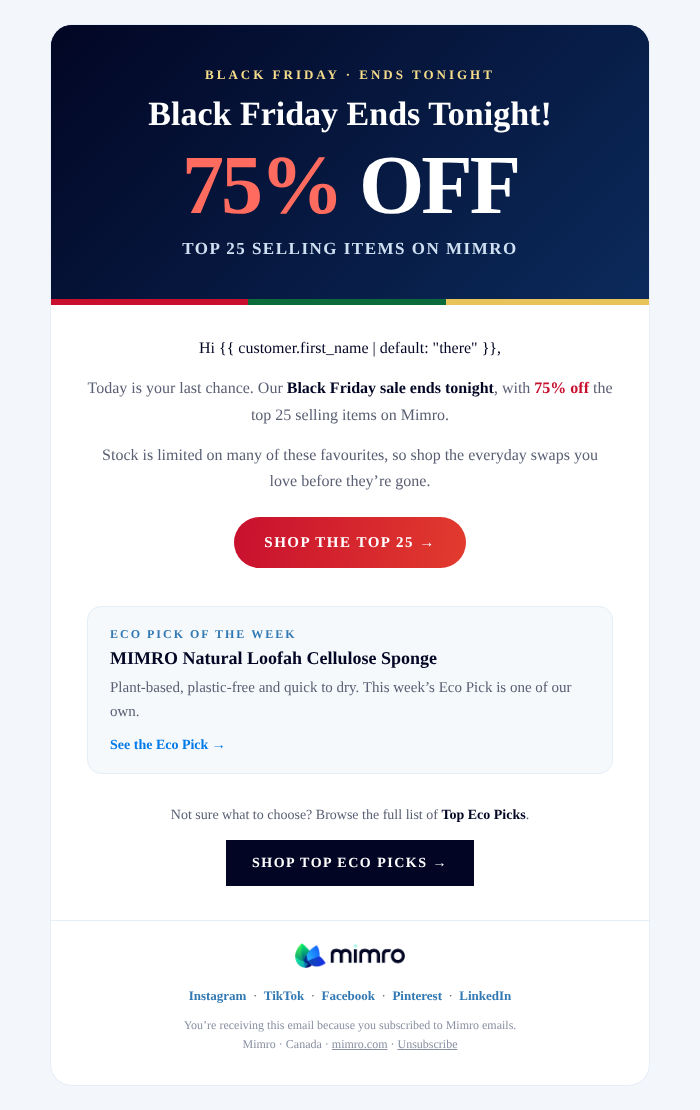
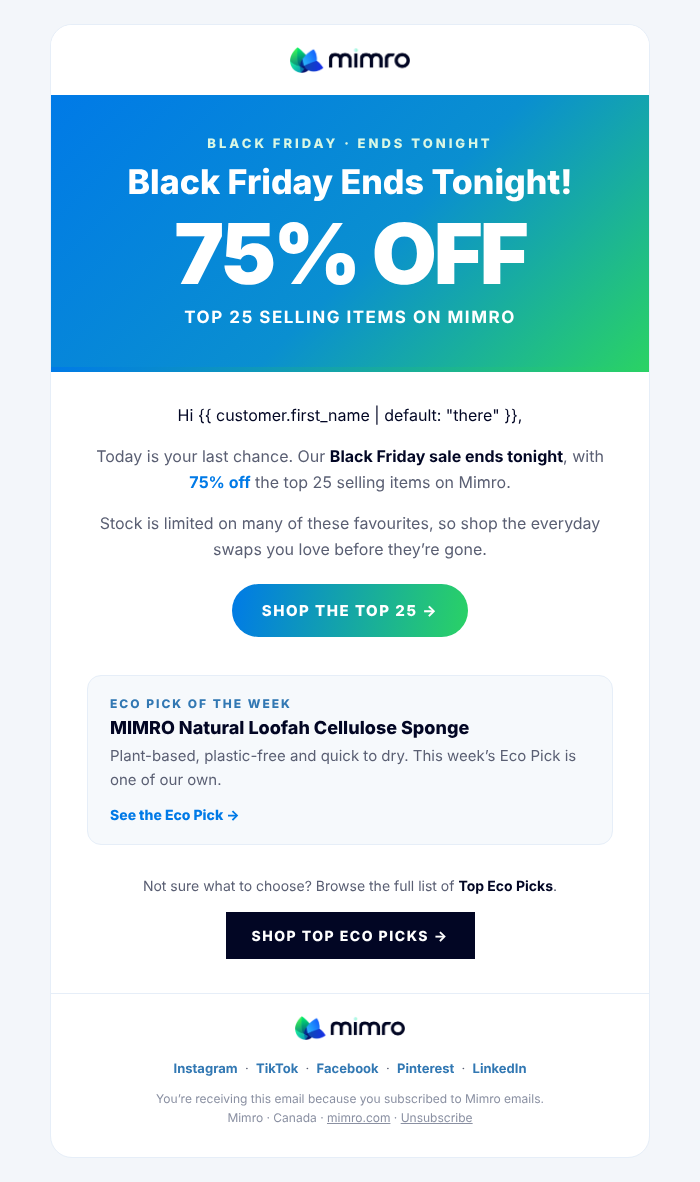
Restyle EM-Q4W8 Eco Pick email in Mimro brand blue-green
Claude-Session: https://claude.ai/code/session_01NAdrPTam75Ss9kLmxSuENc

diff --git a/marketing/emails/em-q4w8-eco-pick-black-friday-ends-tonight_BODY-ONLY.html b/marketing/emails/em-q4w8-eco-pick-black-friday-ends-tonight_BODY-ONLY.html
@@ -8,25 +8,26 @@
 }
 </style>
 <div style="display:none;max-height:0;overflow:hidden;opacity:0">Black Friday ends tonight: 75% off the top 25 selling items on Mimro.</div>
-<table role="presentation" width="100%" cellpadding="0" cellspacing="0" style="background:#f3f6fa"><tr><td class="outer" align="center" style="padding:24px 12px">
+<table role="presentation" width="100%" cellpadding="0" cellspacing="0" style="background:#f3f6fa;font-family:Figtree,'Helvetica Neue',Helvetica,Arial,sans-serif;"><tr><td class="outer" align="center" style="padding:24px 12px">
 <table class="wrap" role="presentation" width="600" cellpadding="0" cellspacing="0" style="width:100%;max-width:600px;background:#ffffff;border-radius:22px;overflow:hidden;border:1px solid #e6eef8">
 
 <!-- HERO -->
-<tr><td style="background:#020624;background-image:linear-gradient(135deg,#020624,#0b2a5b);padding:42px 36px 38px;text-align:center">
+<tr><td style="background:#ffffff;padding:22px 36px 18px;text-align:center"><a href="https://www.mimro.com"><img src="https://cdn.shopify.com/s/files/1/0734/9187/4030/files/mimro-email-logo.png?v=1792101479" width="120" alt="Mimro" style="display:inline-block;border:0;height:auto"></a></td></tr>
+<tr><td style="background:#007ae7;background-image:linear-gradient(135deg,#007ae7 0%,#0a8fd0 55%,#2ad265 100%);padding:40px 36px 38px;text-align:center">
 <a href="https://www.mimro.com/collections/eco-pick-of-the-week" style="text-decoration:none">
-<div style="font-size:13px;font-weight:800;letter-spacing:3px;text-transform:uppercase;color:#f5dc8a">Black Friday · Ends tonight</div>
+<div style="font-size:13px;font-weight:800;letter-spacing:3px;text-transform:uppercase;color:#d9f7e4">Black Friday · Ends tonight</div>
 <div class="h1" style="font-size:34px;line-height:1.12;font-weight:800;color:#ffffff;margin:12px 0 4px">Black Friday Ends Tonight!</div>
-<div style="font-size:84px;line-height:1;font-weight:900;letter-spacing:-3px;color:#ffffff;margin:10px 0 0"><span style="color:#ff6b5e">75%</span> OFF</div>
-<div style="font-size:17px;line-height:1.4;font-weight:700;color:#cfe0f3;margin:10px 0 0;text-transform:uppercase;letter-spacing:1.5px">Top 25 selling items on Mimro</div></a>
+<div style="font-size:84px;line-height:1;font-weight:900;letter-spacing:-3px;color:#ffffff;margin:10px 0 0">75% OFF</div>
+<div style="font-size:17px;line-height:1.4;font-weight:700;color:#ffffff;margin:10px 0 0;text-transform:uppercase;letter-spacing:1.5px">Top 25 selling items on Mimro</div></a>
 </td></tr>
-<tr><td style="height:6px;line-height:6px;font-size:0;background:#c8102e;background-image:linear-gradient(90deg,#c8102e 0,#c8102e 33%,#0b6b3a 33%,#0b6b3a 66%,#e8c35a 66%)">&nbsp;</td></tr>
+<tr><td style="height:5px;line-height:5px;font-size:0;background:#007ae7;background-image:linear-gradient(100deg,#007ae7,#2ad265)">&nbsp;</td></tr>
 
 <!-- BODY -->
 <tr><td class="px" style="padding:30px 36px 8px;text-align:center">
 <p style="font-size:16px;line-height:1.65;margin:0 0 14px;color:#020624">Hi {{ customer.first_name | default: "there" }},</p>
-<p style="font-size:16px;line-height:1.65;margin:0 0 14px;color:#5a5f73">Today is your last chance. Our <b style="color:#020624">Black Friday sale ends tonight</b>, with <b style="color:#c8102e">75% off</b> the top 25 selling items on Mimro.</p>
+<p style="font-size:16px;line-height:1.65;margin:0 0 14px;color:#5a5f73">Today is your last chance. Our <b style="color:#020624">Black Friday sale ends tonight</b>, with <b style="color:#007ae7">75% off</b> the top 25 selling items on Mimro.</p>
 <p style="font-size:16px;line-height:1.65;margin:0 0 22px;color:#5a5f73">Stock is limited on many of these favourites, so shop the everyday swaps you love before they&rsquo;re gone.</p>
-<a class="btn" href="https://www.mimro.com/collections/eco-pick-of-the-week" style="display:inline-block;background:#c8102e;background-image:linear-gradient(100deg,#c8102e,#e23b2e);color:#ffffff;font-size:15px;font-weight:800;letter-spacing:1.5px;text-transform:uppercase;text-decoration:none;padding:17px 30px;text-align:center;border-radius:999px">Shop the Top 25 →</a>
+<a class="btn" href="https://www.mimro.com/collections/eco-pick-of-the-week" style="display:inline-block;background:#007ae7;background-image:linear-gradient(100deg,#007ae7,#2ad265);color:#ffffff;font-size:15px;font-weight:800;letter-spacing:1.5px;text-transform:uppercase;text-decoration:none;padding:17px 30px;text-align:center;border-radius:999px">Shop the Top 25 →</a>
 </td></tr>
 
 <!-- ECO PICK -->
